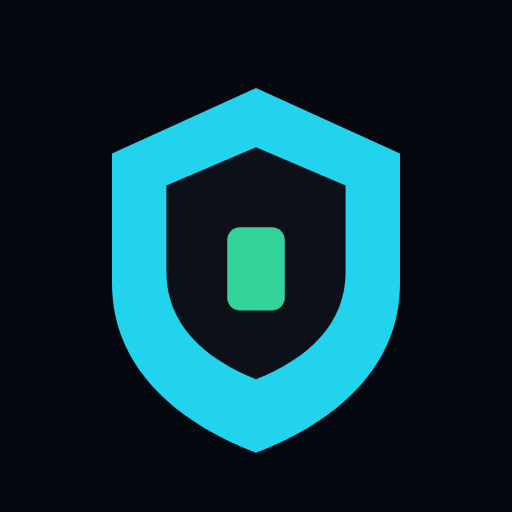
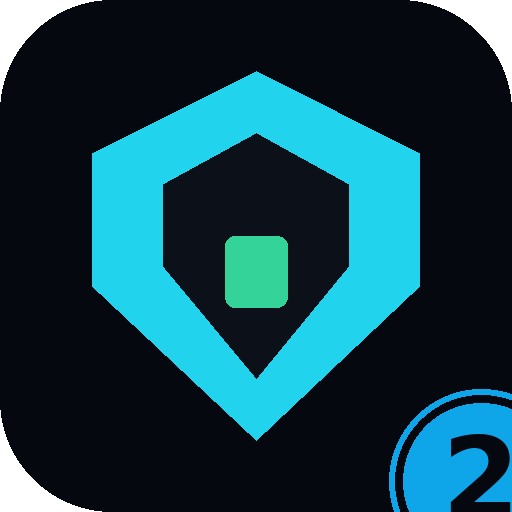
Keep Kysmindset 2 as its own app.
Different launcher icon and name so it can sit next to original Kysmindset.
PIN left alone.

diff --git a/src/components/security/device-owner.tsx b/src/components/security/device-owner.tsx
@@ -68,7 +68,7 @@ export function DeviceOwnerPanel() {
           <p className="text-xs text-muted">
             Device Admin is the path almost everyone can use. Android shows one system screen.
             Lock phone now uses your system PIN first — this app cannot replace the Android lock
-            screen. After you unlock the phone, Kysmindset comes back to its own PIN.
+            screen. After you unlock the phone, Kysmindset 2 comes back to its own PIN.
           </p>
           <p className="text-xs text-muted">
             Home and Back always leave. Pinning is optional and uses Android’s own pin dialog.
@@ -77,7 +77,7 @@ export function DeviceOwnerPanel() {
             size="sm"
             onClick={() => {
               requestAndroidAdmin();
-              toast.message("Allow Kysmindset as device admin on the next screen.");
+              toast.message("Allow Kysmindset 2 as device admin on the next screen.");
             }}
           >
             Enable device admin
@@ -167,12 +167,12 @@ function OwnerControls({
   return (
     <div className="space-y-3">
       <p className="text-xs text-muted">
-        This phone treats Kysmindset as the device policy controller. Home, Recents, and the
+        This phone treats Kysmindset 2 as the device policy controller. Home, Recents, and the
         system keyguard stay available unless you opt into pinning.
       </p>
       <ToggleRow
         title="Replace system keyguard"
-        desc="Turns the Android lock screen off so only the Kysmindset PIN is shown. Fails if the phone still has its own PIN or pattern."
+        desc="Turns the Android lock screen off so only the Kysmindset 2 PIN is shown. Fails if the phone still has its own PIN or pattern."
         checked={Boolean(st.replaceKeyguard)}
         onChange={(v) => {
           const next = applyAndroidOwner(v);
@@ -182,7 +182,7 @@ function OwnerControls({
               "Android kept its keyguard. Remove the phone PIN/pattern, then toggle this again.",
             );
           } else {
-            toast.success(v ? "Kysmindset will own the lock." : "System keyguard restored.");
+            toast.success(v ? "Kysmindset 2 will own the lock." : "System keyguard restored.");
           }
         }}
       />

diff --git a/src/components/security/dashboard.tsx b/src/components/security/dashboard.tsx
@@ -94,7 +94,7 @@ export function Dashboard() {
               <ShieldCheck className="size-5 text-cyan" />
             </div>
             <div>
-              <h1 className="text-base font-semibold">Security Center</h1>
+              <h1 className="text-base font-semibold">Kysmindset 2</h1>
               <div className="flex items-center gap-2 text-2xs text-subtle">
                 {killSwitch ? (
                   <span className="flex items-center gap-1 font-medium text-red">

diff --git a/src/lib/security/catalog.ts b/src/lib/security/catalog.ts
@@ -28,7 +28,7 @@ export const TRACKER_HOSTS = [
   "adsystem.com",
 ];
 
-export const PROTECTED_NAMES = ["Kysmindset", "Service Worker", "Device runtime"];
+export const PROTECTED_NAMES = ["Kysmindset 2", "Kysmindset", "Service Worker", "Device runtime"];
 
 export function isProtectedName(name: string) {
   return PROTECTED_NAMES.some((n) => n.toLowerCase() === name.toLowerCase());

diff --git a/src/lib/security/store.ts b/src/lib/security/store.ts
@@ -204,7 +204,7 @@ export const useSecurity = create<SecurityState>()(
       intrusions: [],
       indicators: [],
       allowlist: [
-        { id: "al-ui", name: "Kysmindset", type: "process" },
+        { id: "al-ui", name: "Kysmindset 2", type: "process" },
         { id: "al-sw", name: "Service Worker", type: "process" },
       ],
       settings: {

diff --git a/android/app/src/main/java/app/kysmindset/security/AppUpdate.java b/android/app/src/main/java/app/kysmindset/security/AppUpdate.java
@@ -135,7 +135,7 @@ public final class AppUpdate {
                             sink.emit(
                                 err(
                                     "need-permission",
-                                    "Allow installs from Kysmindset, then tap Update again"));
+                                    "Allow installs from Kysmindset 2, then tap Update again"));
                             return;
                         }
                         if (!installSession(ctx, apk)) installView(ctx, apk);

diff --git a/README.md b/README.md
@@ -1,6 +1,8 @@
-# Kysmindset
+# Kysmindset 2
 
-Lock screen and security center for **this origin**. Real telemetry. Real Grok analysis. Honest limits.
+Its own app. Not a replacement for original **Kysmindset**. Different id, so both can sit on the phone.
+
+Lock screen and security center for **this app**. Real telemetry. Real Grok analysis. Honest limits.
 
 **App PIN on first launch:** `1234` — that is this app’s PIN, not your phone PIN. Change it in Config. On the APK the PIN is stored on the phone, not in the web page.
 
@@ -8,7 +10,7 @@ Lock screen and security center for **this origin**. Real telemetry. Real Grok a
 
 - Hosts this page actually loaded (Resource Timing)
 - JS heap this page is using (when the browser exposes it)
-- Kill that fails **this app’s** third-party fetches (and a device VPN on the APK if you grant it)
+- Protection that fails **this app’s** third-party fetches (and a device VPN on the APK if you grant it)
 - PIN + fingerprint/face unlock for **this app**
 - Auto-lock of this app when you leave and come back (APK and home-screen install)
 - Device Admin on the APK: `lockNow` uses your **system** PIN. Home and Back always leave
@@ -17,26 +19,26 @@ Lock screen and security center for **this origin**. Real telemetry. Real Grok a
 
 ## What this is not
 
+- Not the original Kysmindset app (that one stays `app.kysmindset.security`)
 - Not an antivirus and not a phone-wide process list
 - The web build cannot cut Facebook or other apps
 - This app does not replace the Android lock screen
 - Device Admin cannot hide Home forever (that is Device Owner, which needs ADB)
 - No SOS, Slack, fake CPU meters, fake malware, or invented decoy hits
-- Decoy paths only intercept when the service worker is controlling (installed PWA)
 
 ## Android APK
 
-Install a **2.1.1+** APK. 2.0.x could overlay the keyguard and trap the phone — that is fixed.
+Install **Kysmindset 2**. Original Kysmindset can stay installed.
 
 1. Open [Releases](https://github.com/xz64uj777/kysmindset/releases)
 2. Install `Kysmindset-2.apk`
 3. Open Kysmindset 2 → Config → **Enable Device Admin** if you want Lock phone now
 4. Overview → **Start Protection** asks for Android VPN if you want other apps offline
 
-Builds after the fixed signing key can install **over** the previous one. Config → App update only installs an APK that is this app and this key. The first APK with that key still needs an uninstall of older debug-signed builds.
+Later builds install **over** this one. Config → App update only installs an APK that is this app and this key.
 
 If **Auto Restart** is on (default) and Protection was on, it comes back after a reboot or after an in-app update.
 
 If an older build already trapped the phone: boot **Safe Mode** (hold Power → long-press Reboot), uninstall Kysmindset 2, or Settings → Security → Device admin apps → turn it off.
 
-Signing: every GitHub APK uses the same personal sideload key in `android/kysmindset-upload.jks` so updates do not wipe the app. This is not a Play Store key. Do not install Kysmindset APKs from anywhere except this repo.
+Signing: every GitHub APK uses the same personal sideload key in `android/kysmindset-upload.jks` so updates do not wipe the app. This is not a Play Store key. Do not install Kysmindset 2 APKs from anywhere except this repo.
